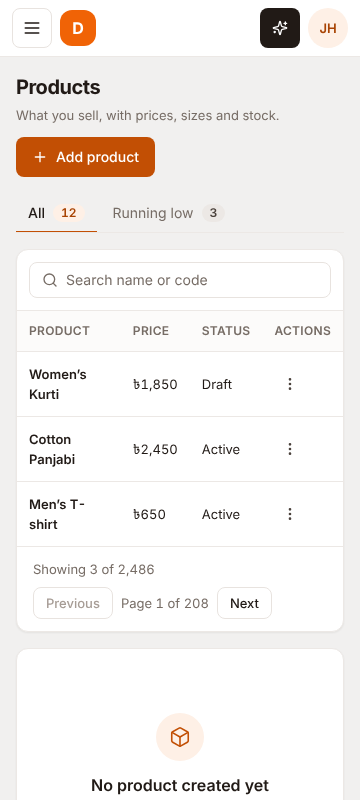
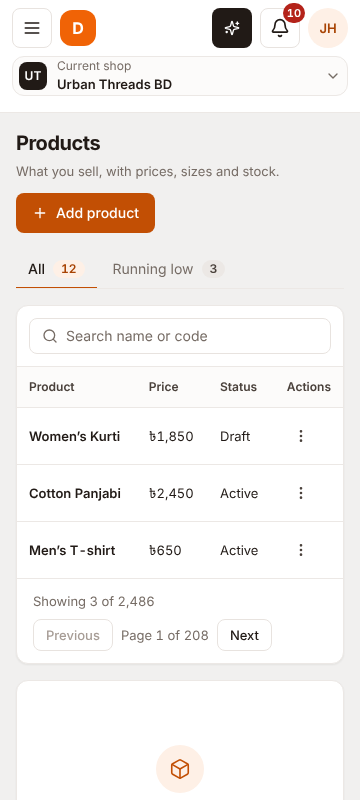
fix(dsn-1): sentence-case table headers, corner badge on the bell, evidence on a real route

diff --git a/apps/web/src/features/notifications/components/notification-bell.tsx b/apps/web/src/features/notifications/components/notification-bell.tsx
@@ -26,7 +26,7 @@ function StoreNotificationBell() {
     <>
       <Button
         variant="secondary"
-        className="shrink-0 px-2"
+        className="relative shrink-0 px-2"
         aria-label={label}
         onClick={() => changeTab('all')}
       >
@@ -34,7 +34,7 @@ function StoreNotificationBell() {
         {count && count !== '0' ? (
           <span
             aria-hidden="true"
-            className="rounded-full bg-danger px-2 text-xs font-semibold text-on-primary tabular-nums"
+            className="absolute -top-1.5 -right-1.5 min-w-5 rounded-full bg-danger px-1 text-center text-[0.6875rem] leading-5 font-semibold text-on-primary tabular-nums"
           >
             {count}
           </span>

diff --git a/packages/ui/src/table.tsx b/packages/ui/src/table.tsx
@@ -50,10 +50,7 @@ export function TableHead({ className, ...props }: TableHeadProps) {
   return (
     <th
       {...props}
-      className={cn(
-        'h-10 px-3 text-left text-xs font-semibold tracking-wide text-text-muted uppercase',
-        className,
-      )}
+      className={cn('h-10 px-3 text-left text-xs font-semibold text-text-secondary', className)}
     />
   );
 }
